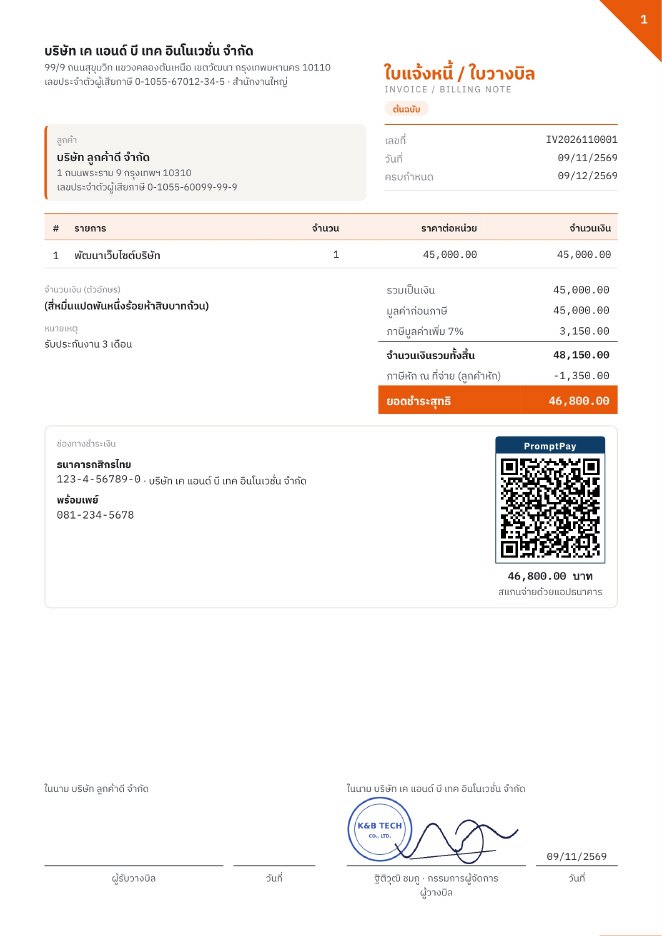
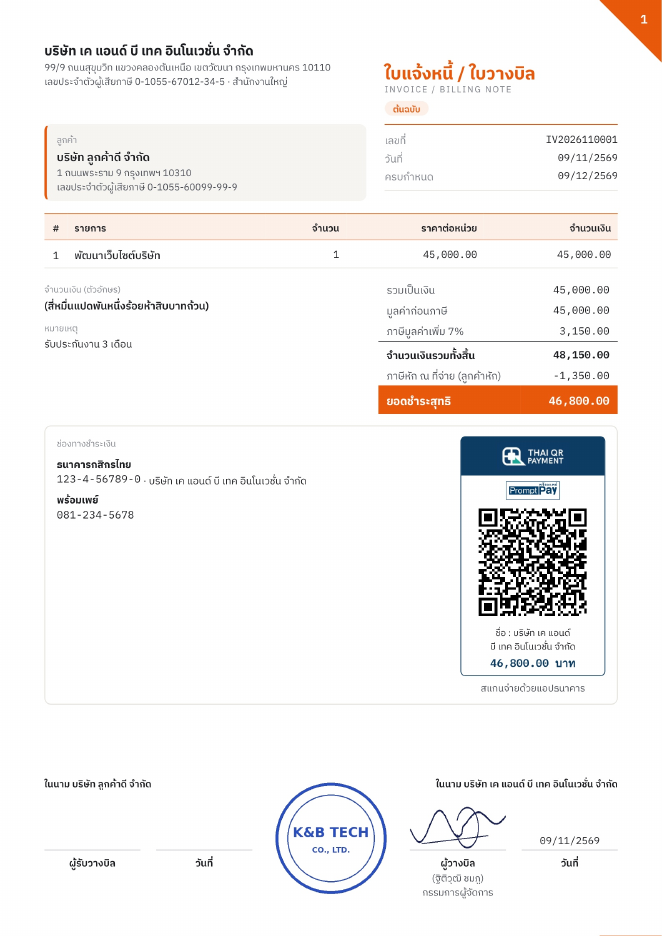
Lay out the document footer as two sides with the stamp in the middle
Each side shows "ในนาม <name>" over a signature line and a date line: the
customer (or payee) on the left, the business on the right with the
signature, signer name and date, and the company stamp centred between
them. Expense vouchers use the same two sides (ผู้รับเงิน / ผู้อนุมัติ).

Claude-Session: https://claude.ai/code/session_01F3zFZVoohrwYigHTooWUJV

diff --git a/account/thai.js b/account/thai.js
@@ -165,7 +165,6 @@
       scan: 'สแกนจ่ายด้วยแอปธนาคาร', baht: 'บาท', original: 'ต้นฉบับ', copy: 'สำเนา', void: 'ยกเลิก', on: 'ในนาม',
       paidBy: (m, d) => `ชำระโดย${m} เมื่อ ${d}`,
       roles: { QT: ['ผู้อนุมัติสั่งซื้อ', 'ผู้เสนอราคา'], IV: ['ผู้รับวางบิล', 'ผู้วางบิล'], RE: ['ผู้จ่ายเงิน', 'ผู้รับเงิน'], EX: ['ผู้รับเงิน', 'ผู้อนุมัติ'] },
-      prepared: 'ผู้จัดทำ',
     },
     en: {
       no: 'No.', date: 'Date', due: 'Due date', valid: 'Valid until', ref: 'Reference', billNo: 'Vendor bill no.',
@@ -177,7 +176,6 @@
       scan: 'Scan with any Thai banking app', baht: 'THB', original: 'Original', copy: 'Copy', void: 'VOID', on: 'For',
       paidBy: (m, d) => `Paid by ${m} on ${d}`,
       roles: { QT: ['Accepted by', 'Quoted by'], IV: ['Received by', 'Issued by'], RE: ['Paid by', 'Received by'], EX: ['Received by', 'Approved by'] },
-      prepared: 'Prepared by',
     },
   };
   const PAY_METHOD_EN = { cash: 'cash', transfer: 'bank transfer', cheque: 'cheque', card: 'card', other: 'other' };
@@ -257,25 +255,24 @@
     const method = doc.pay && (lang === 'en' ? PAY_METHOD_EN : PAY_METHOD)[doc.pay.method];
     const paid = doc.type === 'RE' && doc.pay ? t.paidBy(method || '', fmtDate(doc.pay.date)) : '';
 
-    // Signature lines: the other party on the left, the business on the right (with signature and stamp when asked).
+    // Footer: the other party on the left, the business on the right, the company stamp centred between.
+    // Each side has a signature line and a date line under "ในนาม …".
     const sign = opts.sign !== undefined ? opts.sign : !!s.signAuto;
     const [otherRole, ownRole] = t.roles[doc.type] || t.roles.IV;
     const otherName = doc.contact?.name || '';
-    const sig = (who, role, own) => {
-      const mark = own && sign && (business.signature || business.stamp);
-      return `<div class="pp-sig${own ? ' own' : ''}">
+    const side = (who, role, own) => {
+      const mark = own && sign;
+      return `<div class="pp-side${own ? ' own' : ''}">
         <div class="pp-for">${who ? `${t.on} ${esc(who)}` : '&nbsp;'}</div>
-        <div class="pp-sig-grid">
-          <div class="pp-sig-cell">
-            <div class="pp-mark">${mark && business.stamp ? `<img class="pp-stamp" src="${esc(business.stamp)}" alt="">` : ''}${mark && business.signature ? `<img class="pp-signature" src="${esc(business.signature)}" alt="">` : ''}</div>
-            <div class="pp-line"></div><div class="pp-small">${own && s.signer ? `${esc(s.signer)}${s.signerTitle ? ` · ${esc(s.signerTitle)}` : ''}<br>` : ''}${esc(role)}</div>
-          </div>
-          <div class="pp-sig-cell date"><div class="pp-mark pp-date">${mark ? esc(fmtDate(doc.date)) : ''}</div><div class="pp-line"></div><div class="pp-small">${t.date}</div></div>
+        <div class="pp-pair">
+          <div class="pp-cell"><div class="pp-mark">${mark && business.signature ? `<img class="pp-signature" src="${esc(business.signature)}" alt="">` : ''}</div>
+            <div class="pp-line"></div><div class="pp-role">${esc(role)}</div>${own && s.signer ? `<div class="pp-small pp-signer">(${esc(s.signer)})</div>${s.signerTitle ? `<div class="pp-small pp-signer">${esc(s.signerTitle)}</div>` : ''}` : ''}</div>
+          <div class="pp-cell"><div class="pp-mark pp-date">${mark && (business.signature || business.stamp) ? esc(fmtDate(doc.date)) : ''}</div>
+            <div class="pp-line"></div><div class="pp-role">${t.date}</div></div>
         </div></div>`;
     };
-    const footer = doc.type === 'EX'
-      ? sig('', L[lang === 'en' ? 'en' : 'th'].prepared, false) + sig(business.name, ownRole, true) + sig(otherName, otherRole, false)
-      : sig(otherName, otherRole, false) + sig(business.name, ownRole, true);
+    const seal = `<div class="pp-seal">${sign && business.stamp ? `<img class="pp-stamp" src="${esc(business.stamp)}" alt="">` : ''}</div>`;
+    const footer = side(otherName, otherRole, false) + seal + side(lang === 'en' && business.name_en ? business.name_en : business.name, ownRole, true);
 
     return `<article class="paper pp-lang-${lang}" style="--pp-accent:${esc(color)};--pp-soft:${tint(color, 0.09)};--pp-mid:${tint(color, 0.35)}">
       <div class="pp-corner"></div>${opts.page ? `<div class="pp-page">${esc(opts.page)}</div>` : ''}
@@ -314,7 +311,7 @@
         </table>
       </section>
       ${payBlock}
-      <footer class="pp-sign${doc.type === 'EX' ? ' three' : ''}">${footer}</footer>
+      <footer class="pp-sign">${footer}</footer>
     </article>`;
   }
 

diff --git a/account/styles.css b/account/styles.css
@@ -264,23 +264,23 @@ table.tbl { width: 100%; border-collapse: collapse; font-size: 13.5px; }
 .pdf-render { width: 210mm; background: #fff; }
 .pdf-render .paper { box-shadow: none; border: 0; margin: 0; min-height: 296mm; height: 296mm; overflow: hidden; transform: none !important; }
 .pdf-render .paper:not(:last-child) { page-break-after: always; }
-.pp-sign { margin-top: auto; padding-top: 22px; display: flex; justify-content: space-between; gap: 28px; }
-.pp-sig { flex: 1; max-width: 86mm; }
-.pp-sign.three .pp-sig { max-width: 60mm; }
-.pp-for { font-size: 11.5px; color: #4A4E57; margin-bottom: 2px; white-space: nowrap; overflow: hidden; text-overflow: ellipsis; }
-.pp-sig-grid { display: grid; grid-template-columns: 1fr 26mm; gap: 12px; }
-.pp-sign.three .pp-sig-grid { grid-template-columns: 1fr 18mm; gap: 6px; }
-.pp-sign.three { gap: 16px; }
-.pp-sign.three .pp-sig { max-width: 62mm; }
-.pp-sig-cell { text-align: center; }
-.pp-mark { position: relative; height: 22mm; }
-.pp-stamp { position: absolute; left: 0; bottom: 1mm; height: 21mm; max-width: 34mm; object-fit: contain; opacity: .92; }
-.pp-signature { position: absolute; right: 2mm; bottom: 0; height: 15mm; max-width: 40mm; object-fit: contain; }
+.pp-sign { margin-top: auto; padding-top: 18px; display: flex; justify-content: space-between; align-items: flex-start; gap: 5mm; }
+.pp-signer { white-space: nowrap; overflow: hidden; text-overflow: ellipsis; }
+.pp-side { width: 66mm; flex: none; }
+.pp-for { font-size: 11.5px; font-weight: 600; color: #1B1D21; margin-bottom: 4mm; white-space: nowrap; overflow: hidden; text-overflow: ellipsis; }
+.pp-side.own .pp-for { text-align: right; }
+.pp-pair { display: grid; grid-template-columns: 1fr 1fr; gap: 5mm; }
+.pp-cell { text-align: center; }
+.pp-mark { position: relative; height: 15mm; }
+.pp-signature { position: absolute; left: 50%; bottom: 0; transform: translateX(-50%); height: 14mm; max-width: 31mm; object-fit: contain; }
 .pp-date { display: flex; align-items: flex-end; justify-content: center; font-family: var(--mono); font-size: 12px; padding-bottom: 2px; }
-.pp-line { border-bottom: 1px solid #1B1D21; margin-bottom: 4px; }
+.pp-line { border-bottom: 1px solid #C9CBD0; margin-bottom: 5px; }
+.pp-role { font-size: 12px; font-weight: 600; color: #1B1D21; }
+.pp-seal { flex: 1; min-width: 0; height: 36mm; margin-top: 2mm; display: flex; align-items: center; justify-content: center; }
+.pp-stamp { display: block; max-height: 36mm; max-width: 40mm; object-fit: contain; opacity: .95; }
 .pp-sign-one { justify-content: flex-end; text-align: center; }
 .pp-sign-one > div { max-width: 320px; }
-.pp-sign-one .pp-line { height: 34px; }
+.pp-sign-one .pp-line { height: 34px; border-bottom-color: #1B1D21; }
 .pp-void { position: absolute; top: 40%; left: 50%; transform: translate(-50%, -50%) rotate(-18deg); font-size: 84px; font-weight: 700; color: rgba(201, 42, 42, .18); border: 6px solid rgba(201, 42, 42, .18); padding: 0 30px; border-radius: 16px; pointer-events: none; }
 .pp-wht .pp-copy { align-self: flex-end; }
 .pp-wht-title { text-align: center; font-size: 18px; margin: 10px 0 0; }
